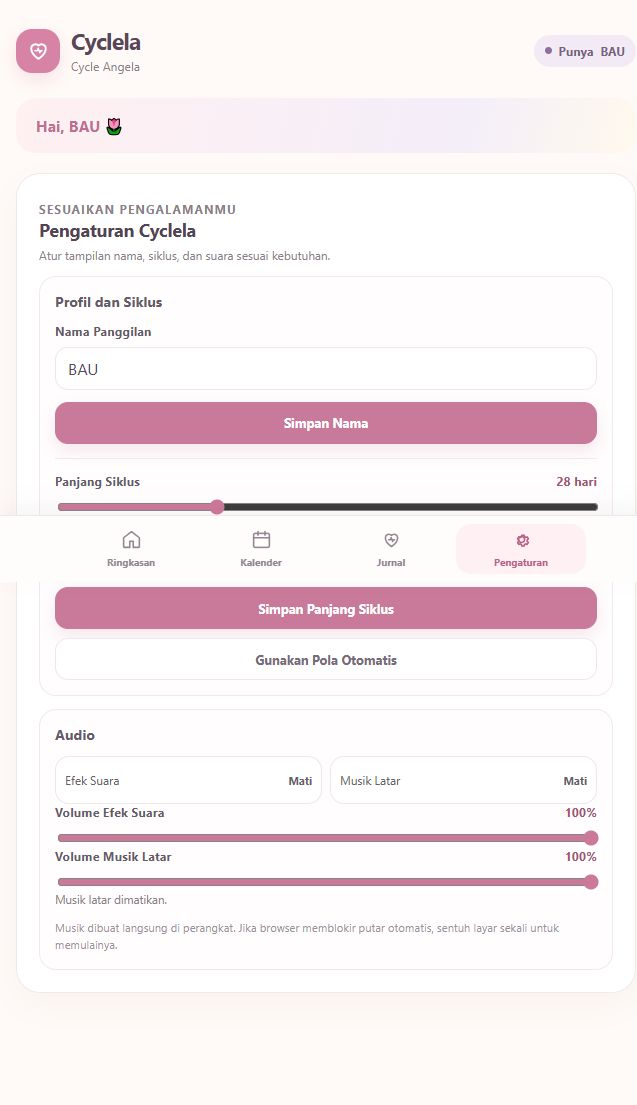
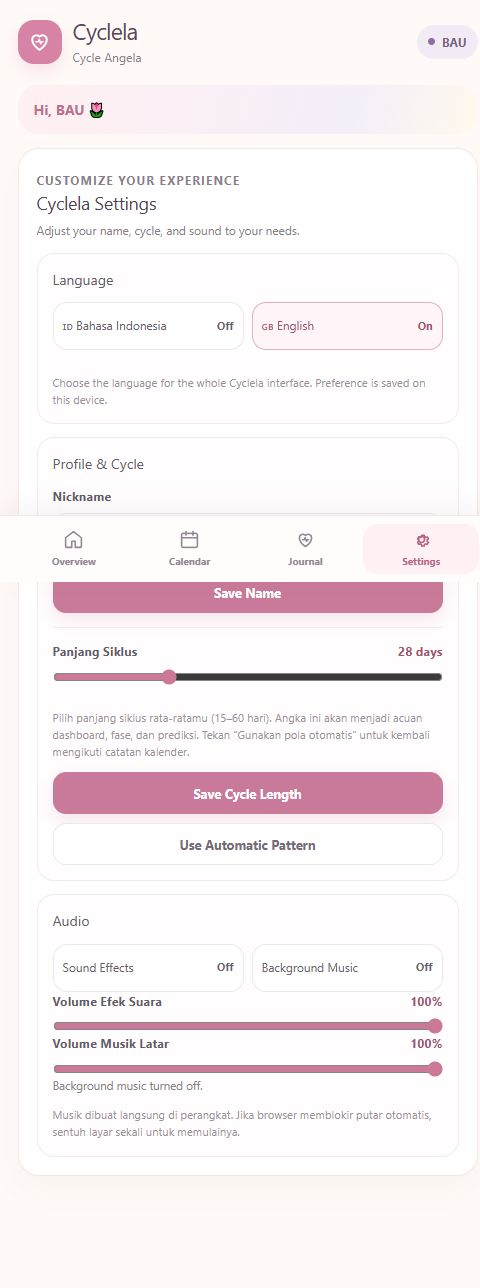
Default to English, primary README in English, fix journal guide

diff --git a/app.js b/app.js
@@ -64,7 +64,7 @@
       "cramp.label": "Tingkat kram (1 ringan – 5 berat)", "cramp.light": "Ringan", "cramp.heavy": "Berat",
       "journal.guide.title": "Isi jurnal dengan mudah", "journal.guide.1": "Pilih tanggal yang ingin dicatat. Hari ini sudah dipilih otomatis.",
       "journal.guide.2": "Pilih semua mood dan gejala yang kamu rasakan. Tingkat kram dan catatan pribadi boleh dilewati.",
-      "journal.guide.3": "Klik Simpan Catatan untuk menyimpan catatan.",
+      "journal.guide.3": "Klik <b>Simpan Catatan</b> untuk menyimpan catatan.",
       "journal.date.1": "1. Tanggal Jurnal", "journal.mood.2": "2. Mood Hari Ini", "journal.mood.help": "Pilih semua mood yang kamu rasakan; kamu bisa memilih lebih dari satu. Bagian ini boleh dilewati.",
       "journal.body.3": "3. Kondisi Tubuh", "journal.body.help": "Pilih gejala yang dirasakan; kamu bisa memilih lebih dari satu. Jika tidak ada, lewati bagian ini.",
       "journal.symptoms": "Gejala", "journal.note.4": "4. Cerita Pribadi", "journal.note.help": "Bagian ini opsional. Tulis hal yang ingin kamu ingat untuk tanggal tersebut.",
@@ -137,7 +137,7 @@
       "cramp.label": "Cramp level (1 mild – 5 severe)", "cramp.light": "Mild", "cramp.heavy": "Severe",
       "journal.guide.title": "Fill in the journal easily", "journal.guide.1": "Pick the date to record. Today is selected automatically.",
       "journal.guide.2": "Choose all moods and symptoms you feel. Cramp level and personal note are optional.",
-      "journal.guide.3": "Click Save Entry to save the note.",
+      "journal.guide.3": "Click <b>Save Entry</b> to save the note.",
       "journal.date.1": "1. Journal Date", "journal.mood.2": "2. Today's Mood", "journal.mood.help": "Choose all moods you feel; you can pick more than one. This section is optional.",
       "journal.body.3": "3. Body Condition", "journal.body.help": "Choose the symptoms you feel; you can pick more than one. If none, skip this section.",
       "journal.symptoms": "Symptoms", "journal.note.4": "4. Personal Story", "journal.note.help": "This section is optional. Write anything you want to remember for that date.",
@@ -191,7 +191,9 @@
     document.querySelectorAll("[data-i18n]").forEach((el) => {
       const key = el.getAttribute("data-i18n");
       const val = t(key);
-      if (el.tagName === "INPUT" || el.tagName === "TEXTAREA") {
+      if (el.hasAttribute("data-i18n-html")) {
+        el.innerHTML = val;
+      } else if (el.tagName === "INPUT" || el.tagName === "TEXTAREA") {
         if (el.hasAttribute("placeholder")) el.setAttribute("placeholder", val);
       } else {
         el.textContent = val;
@@ -416,7 +418,7 @@ let currentLanguage = loadLanguage();
 
 function loadLanguage() {
     const saved = localStorage.getItem(STORAGE_KEYS.language);
-    return saved === "en" ? "en" : "id";
+    return saved === "id" ? "id" : "en";
   }
 
   function loadAudioSettings() {

diff --git a/index.html b/index.html
@@ -317,7 +317,7 @@
             <ol>
               <li><span>1</span><span data-i18n="journal.guide.1">Pilih tanggal yang ingin dicatat. Hari ini sudah dipilih otomatis.</span></li>
               <li><span>2</span><span data-i18n="journal.guide.2">Pilih semua mood dan gejala yang kamu rasakan. Tingkat kram dan catatan pribadi boleh dilewati.</span></li>
-              <li><span>3</span><span data-i18n="journal.guide.3">Klik <b>Simpan Catatan</b>untuk menyimpan catatan.</span></li>
+              <li><span>3</span><span data-i18n="journal.guide.3" data-i18n-html>Klik <b>Simpan Catatan</b> untuk menyimpan catatan.</span></li>
             </ol>
           </aside>
           <form id="log-form">
@@ -413,11 +413,11 @@
           <h3 id="language-settings-title" data-i18n="settings.languageTitle">Bahasa / Language</h3>
           <form id="language-settings-form" class="settings-form">
             <div class="audio-controls">
-              <button class="audio-toggle" id="language-id" type="button" data-lang="id" aria-pressed="true">
-                <span>🇮🇩 Bahasa Indonesia</span><strong id="language-id-state">Aktif</strong>
+              <button class="audio-toggle" id="language-id" type="button" data-lang="id" aria-pressed="false">
+                <span>🇮🇩 Bahasa Indonesia</span><strong id="language-id-state">Off</strong>
               </button>
-              <button class="audio-toggle" id="language-en" type="button" data-lang="en" aria-pressed="false">
-                <span>🇬🇧 English</span><strong id="language-en-state">Mati</strong>
+              <button class="audio-toggle" id="language-en" type="button" data-lang="en" aria-pressed="true">
+                <span>🇬🇧 English</span><strong id="language-en-state">On</strong>
               </button>
             </div>
             <p class="privacy-note" data-i18n="settings.languageNote">Pilih bahasa untuk seluruh antarmuka Cyclela. Preferensi disimpan di perangkat.</p>

diff --git a/README.md b/README.md
@@ -1,17 +1,17 @@
 <p align="center">
-  <img src="assets/icons/cyclela-icon.svg" width="88" height="88" alt="Logo Cyclela" />
+  <img src="assets/icons/cyclela-icon.svg" width="88" height="88" alt="Cyclela logo" />
 </p>
 
 <h1 align="center">Cyclela</h1>
 
 <p align="center">
-  Ruang pribadi untuk mengenali dan mencatat siklus tubuhmu.
+  A private space to understand and track your body's cycle.
 </p>
 
 <p align="center">
-  <a href="README.md"><strong>Bahasa Indonesia</strong></a> ·
-  <a href="README.en.md">English</a> ·
-  <a href="https://cyclela.vercel.app/">Demo Live</a>
+  <a href="README.id.md">Bahasa Indonesia</a> ·
+  <a href="README.md"><strong>English</strong></a> ·
+  <a href="https://cyclela.vercel.app/">Live Demo</a>
 </p>
 
 <p align="center">
@@ -21,102 +21,102 @@
   <img src="https://img.shields.io/badge/license-Personal-d783a6" alt="Personal project" />
 </p>
 
-![Dashboard Cyclela](assets/screenshots/home.jpg)
+![Cyclela dashboard](assets/screenshots/home.jpg)
 
-## Daftar Isi
+## Table of Contents
 
-- [Tentang](#tentang)
+- [About](#about)
 - [Demo](#demo)
-- [Fitur Utama](#fitur-utama)
-- [Tangkapan Layar](#tangkapan-layar)
-- [Teknologi](#teknologi)
-- [Struktur Project](#struktur-project)
-- [Menjalankan Lokal](#menjalankan-lokal)
+- [Key Features](#key-features)
+- [Screenshots](#screenshots)
+- [Tech Stack](#tech-stack)
+- [Project Structure](#project-structure)
+- [Run Locally](#run-locally)
 - [PWA & Offline](#pwa--offline)
-- [Bahasa (i18n)](#bahasa-i18n)
-- [Privasi & Penyimpanan Data](#privasi--penyimpanan-data)
-- [Lisensi](#lisensi)
+- [Language (i18n)](#language-i18n)
+- [Privacy & Data Storage](#privacy--data-storage)
+- [License](#license)
 
-## Tentang
+## About
 
-**Cyclela** ("Cycle Angela") adalah aplikasi web progresif (PWA) pribadi untuk melacak siklus menstruasi dan mencatat kesehatan harian. Dirancang mobile-first dengan nuansa hangat, berjalan sepenuhnya di browser — data disimpan di `localStorage`, tanpa backend atau server.
+**Cyclela** ("Cycle Angela") is a personal progressive web app (PWA) for tracking the menstrual cycle and logging daily health. Designed mobile-first with a warm tone, it runs entirely in the browser — data is stored in `localStorage`, with no backend or server.
 
 ## Demo
 
-Coba langsung di browser: **https://cyclela.vercel.app/**
+Try it in your browser: **https://cyclela.vercel.app/**
 
-## Fitur Utama
+## Key Features
 
-- **Dashboard (Ringkasan)** — hari siklus saat ini, perkiraan haid berikutnya, fase siklus (Menstruasi, Folikuler, Ovulasi, Luteal), dan indikator visual proporsi fase.
-- **Kalender Siklus** — tandai hari-hari haid, prediksi haid & ovulasi berikutnya, navigasi bulan/tahun, legenda warna.
-- **Jurnal Harian** — catat mood (multi-pilihan), tingkat kram (1–5), gejala tubuh (18+ pilihan), dan catatan pribadi per tanggal.
-- **Pengaturan** — nama panggilan profil, panjang siklus (15–60 hari atau otomatis dari pola catatan), efek suara, musik latar, volume, dan bahasa antarmuka.
-- **Audio** — efek suara & musik latar dibuat langsung di perangkat via Web Audio API.
-- **Dukungan Fase** — penjelasan singkat untuk setiap fase siklus.
-- **PWA** — service worker + manifest, bisa di-install dan bekerja offline.
+- **Dashboard (Overview)** — current cycle day, next period estimate, cycle phase (Menstruation, Follicular, Ovulation, Luteal), and a visual phase proportion indicator.
+- **Cycle Calendar** — mark period days, forecast next period & ovulation, navigate months/years, color legend.
+- **Daily Journal** — log mood (multi-select), cramp level (1–5), body symptoms (18+ options), and a personal note per date.
+- **Settings** — profile nickname, cycle length (15–60 days or automatic from recorded pattern), sound effects, background music, volume, and interface language.
+- **Audio** — sound effects & background music generated on-device via the Web Audio API.
+- **Phase Guide** — short explanations for each cycle phase.
+- **PWA** — service worker + manifest; installable and works offline.
 
-## Tangkapan Layar
+## Screenshots
 
-| Ringkasan | Kalender |
+| Overview | Calendar |
 | --- | --- |
-| ![Ringkasan](assets/screenshots/home.jpg) | ![Kalender](assets/screenshots/calendar.jpg) |
+| ![Overview](assets/screenshots/home.jpg) | ![Calendar](assets/screenshots/calendar.jpg) |
 
-| Jurnal Harian | Pengaturan |
+| Daily Journal | Settings |
 | --- | --- |
-| ![Jurnal](assets/screenshots/journal.jpg) | ![Pengaturan](assets/screenshots/settings.jpg) |
+| ![Journal](assets/screenshots/journal.jpg) | ![Settings](assets/screenshots/settings.jpg) |
 
-## Teknologi
+## Tech Stack
 
-- **HTML5** — struktur & aksesibilitas
-- **CSS** — Tailwind CSS (via CDN) + CSS kustom (variabel, responsive, animasi)
-- **JavaScript (ES6, IIFE)** — logika aplikasi tanpa framework
-- **Web Audio API** — efek suara & musik latar (dibuat di perangkat)
-- **Service Worker** — cache aset & dukungan offline
-- **Web App Manifest** — instalasi sebagai PWA
-- **localStorage** — penyimpanan data di perangkat (tanpa backend)
+- **HTML5** — structure & accessibility
+- **CSS** — Tailwind CSS (via CDN) + custom CSS (variables, responsive, animations)
+- **JavaScript (ES6, IIFE)** — application logic, no framework
+- **Web Audio API** — sound effects & background music (generated on-device)
+- **Service Worker** — asset caching & offline support
+- **Web App Manifest** — installation as a PWA
+- **localStorage** — on-device data storage (no backend)
 
-Tidak ada build step, tidak ada dependensi npm, tidak ada backend.
+No build step, no npm dependencies, no backend.
 
-## Struktur Project
+## Project Structure
 
 ```
 Cyclela/
 ├── index.html              # Markup & styling
-├── app.js                  # Logika aplikasi (dashboard, kalender, jurnal, pengaturan, audio, i18n)
+├── app.js                  # App logic (dashboard, calendar, journal, settings, audio, i18n)
 ├── sw.js                   # Service worker (offline cache)
 ├── manifest.json           # PWA manifest
-├── README.md               # Dokumentasi (Bahasa Indonesia)
-├── README.en.md            # Documentation (English)
+├── README.md               # Documentation (English)
+├── README.id.md            # Documentation (Bahasa Indonesia)
 ├── .gitignore
 └── assets/
-    ├── icons/              # Ikon aplikasi (svg, png)
-    └── screenshots/        # Tangkapan layar untuk dokumentasi
+    ├── icons/              # App icons (svg, png)
+    └── screenshots/        # Screenshots for documentation
 ```
 
-## Menjalankan Lokal
+## Run Locally
 
-Cukup buka `index.html` di browser, atau serve dengan server statis:
+Just open `index.html` in your browser, or serve with a static server:
 
 ```bash
 npx serve .
-# atau
+# or
 npx http-server .
 ```
 
-Lalu buka `http://localhost:3000` (atau port yang ditampilkan).
+Then open `http://localhost:3000` (or the port shown).
 
 ## PWA & Offline
 
-Aplikasi mendaftarkan service worker (`sw.js`) yang menyimpan aset statis di cache. Setelah kunjungan pertama, Cyclela dapat dibuka tanpa koneksi internet. Manifest (`manifest.json`) memungkinkan instalasi ke layar utama (Add to Home Screen).
+The app registers a service worker (`sw.js`) that caches static assets. After the first visit, Cyclela can be opened without an internet connection. The manifest (`manifest.json`) enables installation to the home screen (Add to Home Screen).
 
-## Bahasa (i18n)
+## Language (i18n)
 
-Antarmuka mendukung **Bahasa Indonesia** dan **English**. Pilihan disimpan di perangkat (localStorage) dan dapat diubah di **Pengaturan → Bahasa / Language**. Default: Bahasa Indonesia.
+The interface supports **Bahasa Indonesia** and **English**. The choice is saved on the device (localStorage) and can be changed under **Settings → Language**. Default: Bahasa Indonesia.
 
-## Privasi & Penyimpanan Data
+## Privacy & Data Storage
 
-Semua data (catatan harian, hari haid, pengaturan profil, preferensi audio/bahasa) disimpan lokal di perangkat pengguna melalui `localStorage`. Tidak ada data yang dikirim ke server mana pun.
+All data (daily notes, period days, profile settings, audio/language preferences) is stored locally on the user's device via `localStorage`. No data is sent to any server.
 
-## Lisensi
+## License
 
-Proyek personal. © Yoganatha Pranashakti.
+Personal project. © Yoganatha Pranashakti.

diff --git a/README.id.md b/README.id.md
@@ -1,0 +1,122 @@
+<p align="center">
+  <img src="assets/icons/cyclela-icon.svg" width="88" height="88" alt="Logo Cyclela" />
+</p>
+
+<h1 align="center">Cyclela</h1>
+
+<p align="center">
+  Ruang pribadi untuk mengenali dan mencatat siklus tubuhmu.
+</p>
+
+<p align="center">
+  <a href="README.id.md"><strong>Bahasa Indonesia</strong></a> ·
+  <a href="README.md">English</a> ·
+  <a href="https://cyclela.vercel.app/">Demo Live</a>
+</p>
+
+<p align="center">
+  <img src="https://img.shields.io/badge/PWA-offline--first-d783a6" alt="PWA offline-first" />
+  <img src="https://img.shields.io/badge/tech-HTML%20%7C%20CSS%20%7C%20JavaScript-d783a6" alt="Tech HTML CSS JavaScript" />
+  <img src="https://img.shields.io/badge/i18n-ID%20%2F%20EN-d783a6" alt="i18n ID/EN" />
+  <img src="https://img.shields.io/badge/license-Personal-d783a6" alt="Personal project" />
+</p>
+
+![Dashboard Cyclela](assets/screenshots/home.jpg)
+
+## Daftar Isi
+
+- [Tentang](#tentang)
+- [Demo](#demo)
+- [Fitur Utama](#fitur-utama)
+- [Tangkapan Layar](#tangkapan-layar)
+- [Teknologi](#teknologi)
+- [Struktur Project](#struktur-project)
+- [Menjalankan Lokal](#menjalankan-lokal)
+- [PWA & Offline](#pwa--offline)
+- [Bahasa (i18n)](#bahasa-i18n)
+- [Privasi & Penyimpanan Data](#privasi--penyimpanan-data)
+- [Lisensi](#lisensi)
+
+## Tentang
+
+**Cyclela** ("Cycle Angela") adalah aplikasi web progresif (PWA) pribadi untuk melacak siklus menstruasi dan mencatat kesehatan harian. Dirancang mobile-first dengan nuansa hangat, berjalan sepenuhnya di browser — data disimpan di `localStorage`, tanpa backend atau server.
+
+## Demo
+
+Coba langsung di browser: **https://cyclela.vercel.app/**
+
+## Fitur Utama
+
+- **Dashboard (Ringkasan)** — hari siklus saat ini, perkiraan haid berikutnya, fase siklus (Menstruasi, Folikuler, Ovulasi, Luteal), dan indikator visual proporsi fase.
+- **Kalender Siklus** — tandai hari-hari haid, prediksi haid & ovulasi berikutnya, navigasi bulan/tahun, legenda warna.
+- **Jurnal Harian** — catat mood (multi-pilihan), tingkat kram (1–5), gejala tubuh (18+ pilihan), dan catatan pribadi per tanggal.
+- **Pengaturan** — nama panggilan profil, panjang siklus (15–60 hari atau otomatis dari pola catatan), efek suara, musik latar, volume, dan bahasa antarmuka.
+- **Audio** — efek suara & musik latar dibuat langsung di perangkat via Web Audio API.
+- **Dukungan Fase** — penjelasan singkat untuk setiap fase siklus.
+- **PWA** — service worker + manifest, bisa di-install dan bekerja offline.
+
+## Tangkapan Layar
+
+| Ringkasan | Kalender |
+| --- | --- |
+| ![Ringkasan](assets/screenshots/home.jpg) | ![Kalender](assets/screenshots/calendar.jpg) |
+
+| Jurnal Harian | Pengaturan |
+| --- | --- |
+| ![Jurnal](assets/screenshots/journal.jpg) | ![Pengaturan](assets/screenshots/settings.jpg) |
+
+## Teknologi
+
+- **HTML5** — struktur & aksesibilitas
+- **CSS** — Tailwind CSS (via CDN) + CSS kustom (variabel, responsive, animasi)
+- **JavaScript (ES6, IIFE)** — logika aplikasi tanpa framework
+- **Web Audio API** — efek suara & musik latar (dibuat di perangkat)
+- **Service Worker** — cache aset & dukungan offline
+- **Web App Manifest** — instalasi sebagai PWA
+- **localStorage** — penyimpanan data di perangkat (tanpa backend)
+
+Tidak ada build step, tidak ada dependensi npm, tidak ada backend.
+
+## Struktur Project
+
+```
+Cyclela/
+├── index.html              # Markup & styling
+├── app.js                  # Logika aplikasi (dashboard, kalender, jurnal, pengaturan, audio, i18n)
+├── sw.js                   # Service worker (offline cache)
+├── manifest.json           # PWA manifest
+├── README.md               # Documentation (English)
+├── README.id.md            # Dokumentasi (Bahasa Indonesia)
+├── .gitignore
+└── assets/
+    ├── icons/              # Ikon aplikasi (svg, png)
+    └── screenshots/        # Tangkapan layar untuk dokumentasi
+```
+
+## Menjalankan Lokal
+
+Cukup buka `index.html` di browser, atau serve dengan server statis:
+
+```bash
+npx serve .
+# atau
+npx http-server .
+```
+
+Lalu buka `http://localhost:3000` (atau port yang ditampilkan).
+
+## PWA & Offline
+
+Aplikasi mendaftarkan service worker (`sw.js`) yang menyimpan aset statis di cache. Setelah kunjungan pertama, Cyclela dapat dibuka tanpa koneksi internet. Manifest (`manifest.json`) memungkinkan instalasi ke layar utama (Add to Home Screen).
+
+## Bahasa (i18n)
+
+Antarmuka mendukung **Bahasa Indonesia** dan **English**. Pilihan disimpan di perangkat (localStorage) dan dapat diubah di **Pengaturan → Bahasa / Language**. Default: Bahasa Indonesia.
+
+## Privasi & Penyimpanan Data
+
+Semua data (catatan harian, hari haid, pengaturan profil, preferensi audio/bahasa) disimpan lokal di perangkat pengguna melalui `localStorage`. Tidak ada data yang dikirim ke server mana pun.
+
+## Lisensi
+
+Proyek personal. © Yoganatha Pranashakti.

diff --git a/README.en.md b/README.en.md
@@ -9,8 +9,8 @@
 </p>
 
 <p align="center">
-  <a href="README.md">Bahasa Indonesia</a> ·
-  <a href="README.en.md"><strong>English</strong></a> ·
+  <a href="README.id.md">Bahasa Indonesia</a> ·
+  <a href="README.md"><strong>English</strong></a> ·
   <a href="https://cyclela.vercel.app/">Live Demo</a>
 </p>
 
@@ -85,8 +85,8 @@ Cyclela/
 ├── app.js                  # App logic (dashboard, calendar, journal, settings, audio, i18n)
 ├── sw.js                   # Service worker (offline cache)
 ├── manifest.json           # PWA manifest
-├── README.md               # Documentation (Bahasa Indonesia)
-├── README.en.md            # Documentation (English)
+├── README.md               # Documentation (English)
+├── README.id.md            # Documentation (Bahasa Indonesia)
 ├── .gitignore
 └── assets/
     ├── icons/              # App icons (svg, png)
